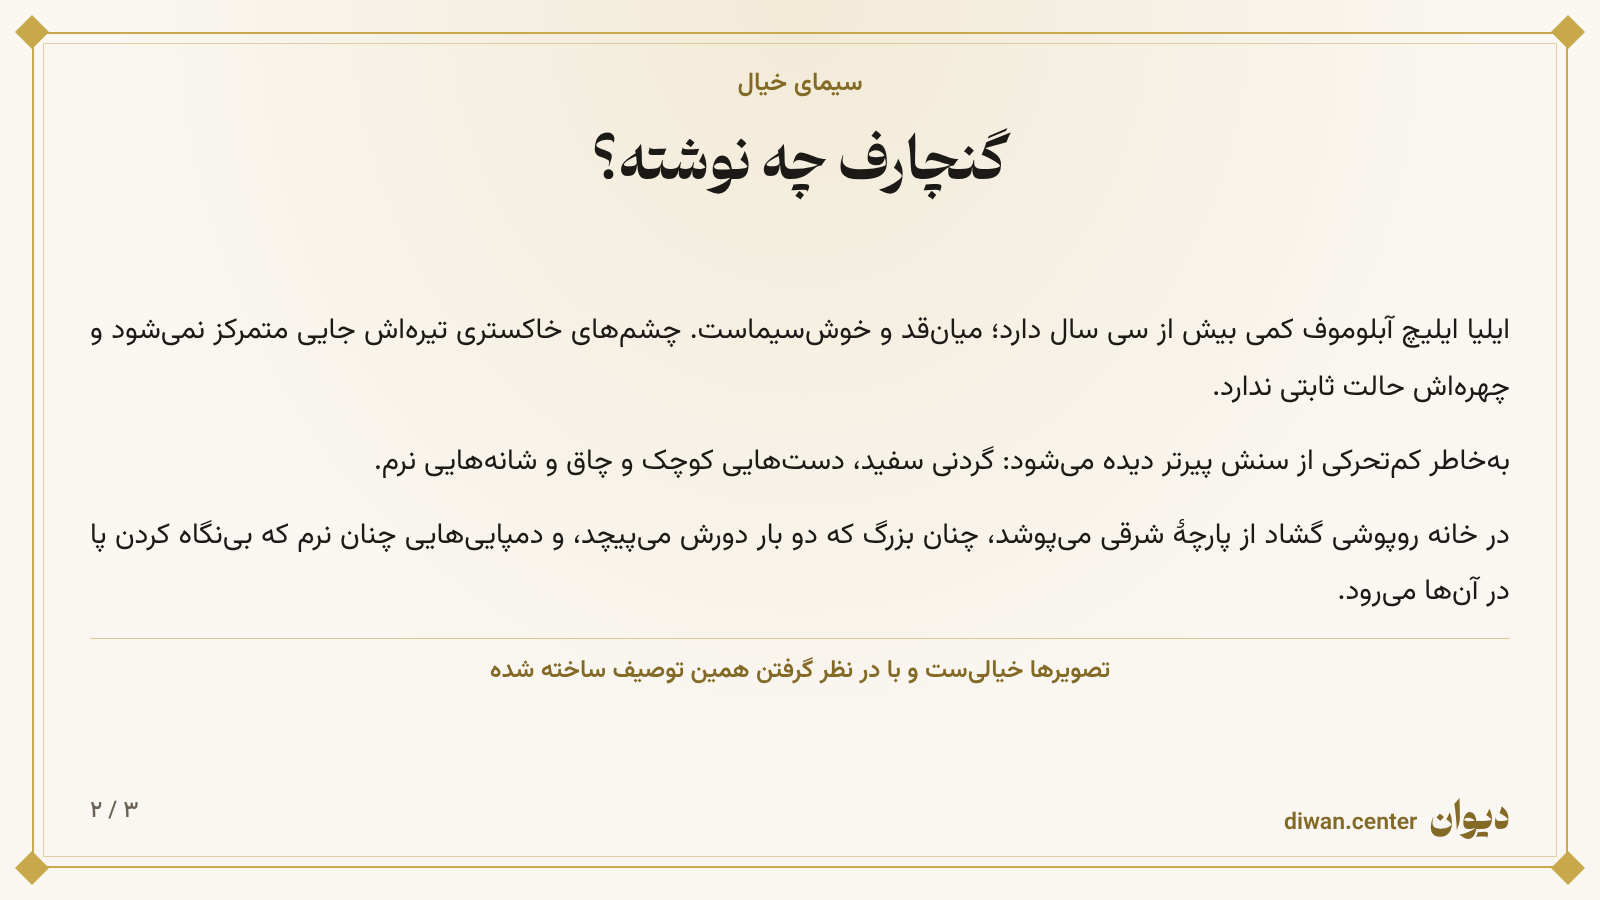
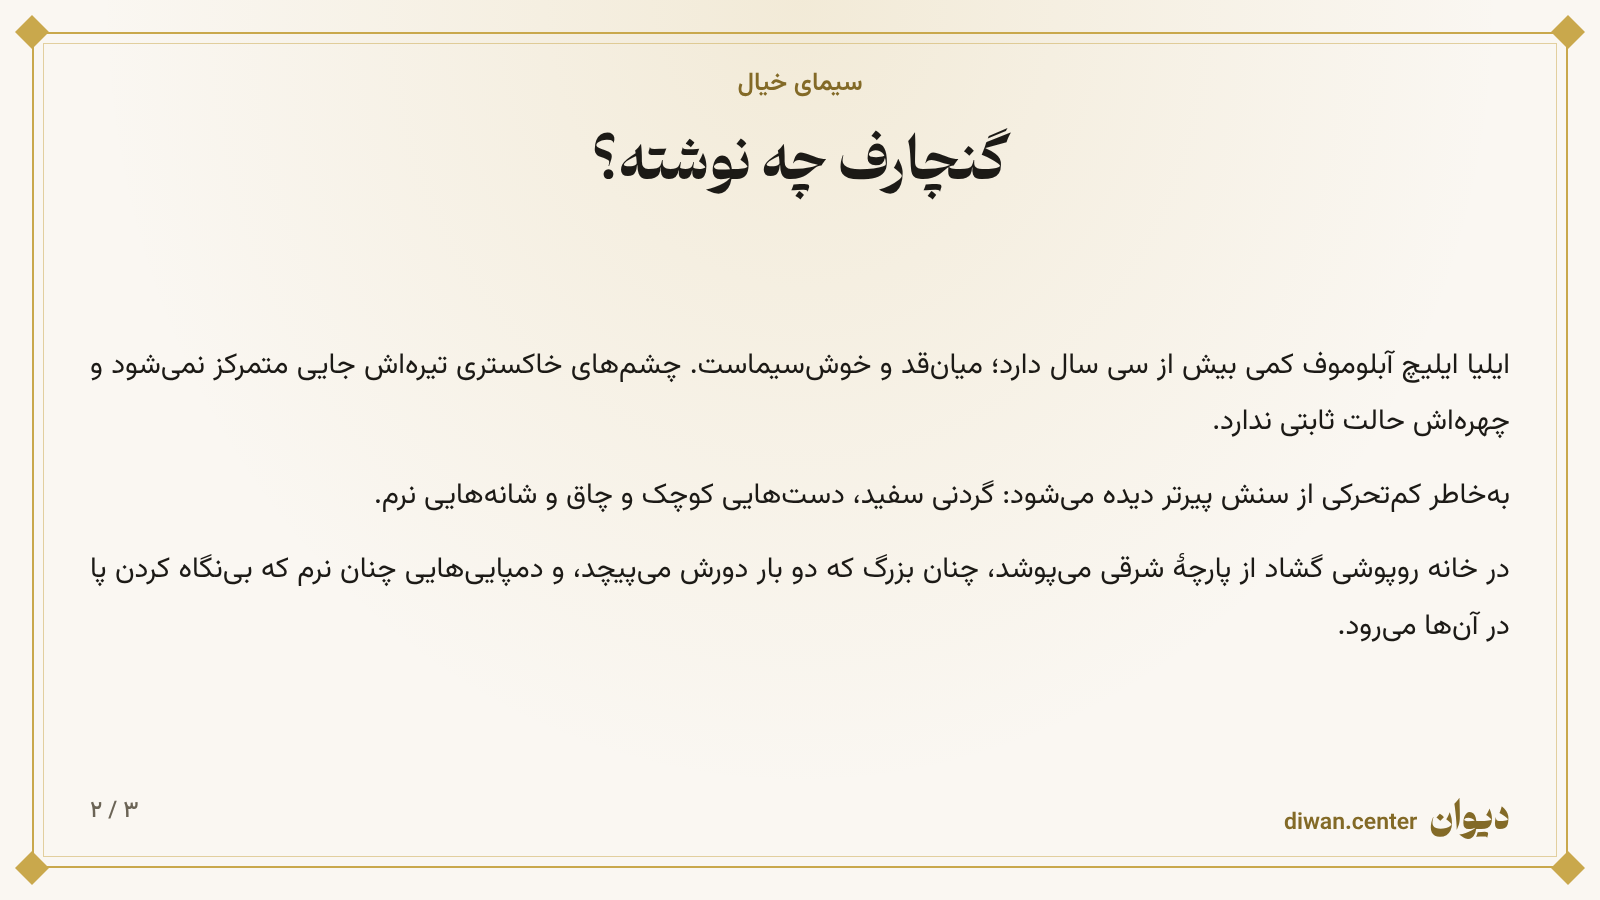
post22: drop note line from slide 2
Claude-Session: https://claude.ai/code/session_01KbXFhZ5gVHvAJQxmARukFF

Changed region(s): [[0.0625, 0.3422, 0.9375, 0.7156], [0.3125, 0.7156, 0.6875, 0.7778]]

diff --git a/tools/simay/out/_s2_ig.html b/tools/simay/out/_s2_ig.html
@@ -33,4 +33,4 @@ h2{font-family:Doran,Vazirmatn,sans-serif;font-weight:800;font-size:var(--ft);te
 .bn{font-size:calc(var(--fb)*.85);color:#836a27;font-weight:600;text-align:center;border-top:1px solid #d7c88f;padding-top:.5em;text-wrap:balance}
 .foot{display:flex;justify-content:space-between;color:#836a27;font-weight:600;font-size:var(--ff)}
 .foot b{font-family:Doran,Vazirmatn,sans-serif;font-size:calc(var(--ff)*1.45)}.foot .pg{color:#6b6456;font-weight:500}
-</style></head><body><div class="slide ig" style="--W:1080px;--H:1350px;--m:44px;--pad:96px 100px 80px;--ft:68px;--fb:38px;--ff:27px;--ct:90px;--cs:32px;--ck:30px"><div class="frame"></div><div class="dia a"></div><div class="dia b"></div><div class="dia c"></div><div class="dia d"></div><div class="tx"><div class="kicker">سیمای خیال</div><h2>گنچارف چه نوشته؟</h2><div class="bl" style="--fb:38px"><div class="bp">ایلیا ایلیچ آبلوموف کمی بیش از سی سال دارد؛ میانقد و خوشسیماست. چشمهای خاکستری تیرهاش جایی متمرکز نمیشود و چهرهاش حالت ثابتی ندارد.</div><div class="bp">بهخاطر کمتحرکی از سنش پیرتر دیده میشود: گردنی سفید، دستهایی کوچک و چاق و شانههایی نرم.</div><div class="bp">در خانه روپوشی گشاد از پارچهٔ شرقی میپوشد، چنان بزرگ که دو بار دورش میپیچد، و دمپاییهایی چنان نرم که بینگاه کردن پا در آنها میرود.</div><div class="bn">تصویرها خیالیست و با در نظر گرفتن همین توصیف ساخته شده</div></div><div class="foot"><span><b>دیوان</b> &nbsp;<span class="lt">diwan.center</span></span><span class="pg" dir="ltr">۲ / ۳</span></div></div></div></body></html>
+</style></head><body><div class="slide ig" style="--W:1080px;--H:1350px;--m:44px;--pad:96px 100px 80px;--ft:68px;--fb:38px;--ff:27px;--ct:90px;--cs:32px;--ck:30px"><div class="frame"></div><div class="dia a"></div><div class="dia b"></div><div class="dia c"></div><div class="dia d"></div><div class="tx"><div class="kicker">سیمای خیال</div><h2>گنچارف چه نوشته؟</h2><div class="bl" style="--fb:38px"><div class="bp">ایلیا ایلیچ آبلوموف کمی بیش از سی سال دارد؛ میانقد و خوشسیماست. چشمهای خاکستری تیرهاش جایی متمرکز نمیشود و چهرهاش حالت ثابتی ندارد.</div><div class="bp">بهخاطر کمتحرکی از سنش پیرتر دیده میشود: گردنی سفید، دستهایی کوچک و چاق و شانههایی نرم.</div><div class="bp">در خانه روپوشی گشاد از پارچهٔ شرقی میپوشد، چنان بزرگ که دو بار دورش میپیچد، و دمپاییهایی چنان نرم که بینگاه کردن پا در آنها میرود.</div></div><div class="foot"><span><b>دیوان</b> &nbsp;<span class="lt">diwan.center</span></span><span class="pg" dir="ltr">۲ / ۳</span></div></div></div></body></html>

diff --git a/tools/simay/out/_s2_tg.html b/tools/simay/out/_s2_tg.html
@@ -33,4 +33,4 @@ h2{font-family:Doran,Vazirmatn,sans-serif;font-weight:800;font-size:var(--ft);te
 .bn{font-size:calc(var(--fb)*.85);color:#836a27;font-weight:600;text-align:center;border-top:1px solid #d7c88f;padding-top:.5em;text-wrap:balance}
 .foot{display:flex;justify-content:space-between;color:#836a27;font-weight:600;font-size:var(--ff)}
 .foot b{font-family:Doran,Vazirmatn,sans-serif;font-size:calc(var(--ff)*1.45)}.foot .pg{color:#6b6456;font-weight:500}
-</style></head><body><div class="slide tg" style="--W:1280px;--H:720px;--m:28px;--pad:52px 70px 42px;--ft:44px;--fb:25px;--ff:20px;--ct:64px;--cs:26px;--ck:24px"><div class="frame"></div><div class="dia a"></div><div class="dia b"></div><div class="dia c"></div><div class="dia d"></div><div class="tx"><div class="kicker">سیمای خیال</div><h2>گنچارف چه نوشته؟</h2><div class="bl" style="--fb:23px"><div class="bp">ایلیا ایلیچ آبلوموف کمی بیش از سی سال دارد؛ میانقد و خوشسیماست. چشمهای خاکستری تیرهاش جایی متمرکز نمیشود و چهرهاش حالت ثابتی ندارد.</div><div class="bp">بهخاطر کمتحرکی از سنش پیرتر دیده میشود: گردنی سفید، دستهایی کوچک و چاق و شانههایی نرم.</div><div class="bp">در خانه روپوشی گشاد از پارچهٔ شرقی میپوشد، چنان بزرگ که دو بار دورش میپیچد، و دمپاییهایی چنان نرم که بینگاه کردن پا در آنها میرود.</div><div class="bn">تصویرها خیالیست و با در نظر گرفتن همین توصیف ساخته شده</div></div><div class="foot"><span><b>دیوان</b> &nbsp;<span class="lt">diwan.center</span></span><span class="pg" dir="ltr">۲ / ۳</span></div></div></div></body></html>
+</style></head><body><div class="slide tg" style="--W:1280px;--H:720px;--m:28px;--pad:52px 70px 42px;--ft:44px;--fb:25px;--ff:20px;--ct:64px;--cs:26px;--ck:24px"><div class="frame"></div><div class="dia a"></div><div class="dia b"></div><div class="dia c"></div><div class="dia d"></div><div class="tx"><div class="kicker">سیمای خیال</div><h2>گنچارف چه نوشته؟</h2><div class="bl" style="--fb:23px"><div class="bp">ایلیا ایلیچ آبلوموف کمی بیش از سی سال دارد؛ میانقد و خوشسیماست. چشمهای خاکستری تیرهاش جایی متمرکز نمیشود و چهرهاش حالت ثابتی ندارد.</div><div class="bp">بهخاطر کمتحرکی از سنش پیرتر دیده میشود: گردنی سفید، دستهایی کوچک و چاق و شانههایی نرم.</div><div class="bp">در خانه روپوشی گشاد از پارچهٔ شرقی میپوشد، چنان بزرگ که دو بار دورش میپیچد، و دمپاییهایی چنان نرم که بینگاه کردن پا در آنها میرود.</div></div><div class="foot"><span><b>دیوان</b> &nbsp;<span class="lt">diwan.center</span></span><span class="pg" dir="ltr">۲ / ۳</span></div></div></div></body></html>

diff --git a/tools/simay/out/_s2_x.html b/tools/simay/out/_s2_x.html
@@ -33,4 +33,4 @@ h2{font-family:Doran,Vazirmatn,sans-serif;font-weight:800;font-size:var(--ft);te
 .bn{font-size:calc(var(--fb)*.85);color:#836a27;font-weight:600;text-align:center;border-top:1px solid #d7c88f;padding-top:.5em;text-wrap:balance}
 .foot{display:flex;justify-content:space-between;color:#836a27;font-weight:600;font-size:var(--ff)}
 .foot b{font-family:Doran,Vazirmatn,sans-serif;font-size:calc(var(--ff)*1.45)}.foot .pg{color:#6b6456;font-weight:500}
-</style></head><body><div class="slide x" style="--W:1600px;--H:900px;--m:32px;--pad:64px 90px 52px;--ft:54px;--fb:31px;--ff:23px;--ct:80px;--cs:31px;--ck:28px"><div class="frame"></div><div class="dia a"></div><div class="dia b"></div><div class="dia c"></div><div class="dia d"></div><div class="tx"><div class="kicker">سیمای خیال</div><h2>گنچارف چه نوشته؟</h2><div class="bl" style="--fb:29px"><div class="bp">ایلیا ایلیچ آبلوموف کمی بیش از سی سال دارد؛ میانقد و خوشسیماست. چشمهای خاکستری تیرهاش جایی متمرکز نمیشود و چهرهاش حالت ثابتی ندارد.</div><div class="bp">بهخاطر کمتحرکی از سنش پیرتر دیده میشود: گردنی سفید، دستهایی کوچک و چاق و شانههایی نرم.</div><div class="bp">در خانه روپوشی گشاد از پارچهٔ شرقی میپوشد، چنان بزرگ که دو بار دورش میپیچد، و دمپاییهایی چنان نرم که بینگاه کردن پا در آنها میرود.</div><div class="bn">تصویرها خیالیست و با در نظر گرفتن همین توصیف ساخته شده</div></div><div class="foot"><span><b>دیوان</b> &nbsp;<span class="lt">diwan.center</span></span><span class="pg" dir="ltr">۲ / ۳</span></div></div></div></body></html>
+</style></head><body><div class="slide x" style="--W:1600px;--H:900px;--m:32px;--pad:64px 90px 52px;--ft:54px;--fb:31px;--ff:23px;--ct:80px;--cs:31px;--ck:28px"><div class="frame"></div><div class="dia a"></div><div class="dia b"></div><div class="dia c"></div><div class="dia d"></div><div class="tx"><div class="kicker">سیمای خیال</div><h2>گنچارف چه نوشته؟</h2><div class="bl" style="--fb:29px"><div class="bp">ایلیا ایلیچ آبلوموف کمی بیش از سی سال دارد؛ میانقد و خوشسیماست. چشمهای خاکستری تیرهاش جایی متمرکز نمیشود و چهرهاش حالت ثابتی ندارد.</div><div class="bp">بهخاطر کمتحرکی از سنش پیرتر دیده میشود: گردنی سفید، دستهایی کوچک و چاق و شانههایی نرم.</div><div class="bp">در خانه روپوشی گشاد از پارچهٔ شرقی میپوشد، چنان بزرگ که دو بار دورش میپیچد، و دمپاییهایی چنان نرم که بینگاه کردن پا در آنها میرود.</div></div><div class="foot"><span><b>دیوان</b> &nbsp;<span class="lt">diwan.center</span></span><span class="pg" dir="ltr">۲ / ۳</span></div></div></div></body></html>

diff --git a/tools/simay/build.py b/tools/simay/build.py
@@ -11,7 +11,7 @@ S=[
   'ایلیا ایلیچ آبلوموف کمی بیش از سی سال دارد؛ میانقد و خوشسیماست. چشمهای خاکستری تیرهاش جایی متمرکز نمیشود و چهرهاش حالت ثابتی ندارد.',
   'بهخاطر کمتحرکی از سنش پیرتر دیده میشود: گردنی سفید، دستهایی کوچک و چاق و شانههایی نرم.',
   'در خانه روپوشی گشاد از پارچهٔ شرقی میپوشد، چنان بزرگ که دو بار دورش میپیچد، و دمپاییهایی چنان نرم که بینگاه کردن پا در آنها میرود.',
- ],note='تصویرها خیالیست و با در نظر گرفتن همین توصیف ساخته شده'),
+ ]),
  dict(k='img',art='assets/oblomov_out.png',title='و بیرون از خانه؟',sub='در رمان، عشق است که او را از خانه بیرون میکشد'),
 ]
 N=len(S)
@@ -69,7 +69,7 @@ def html(i,s,p):
         frame='<div class="frame"></div><div class="dia a"></div><div class="dia b"></div><div class="dia c"></div><div class="dia d"></div>'
         fb=int({'ig':38,'tg':23,'x':29}[p])
         paras=''.join(f'<div class="bp">{t}</div>' for t in s['paras'])
-        body=f'{frame}<div class="tx"><div class="kicker">{KICK}</div><h2>{s["title"]}</h2><div class="bl" style="--fb:{fb}px">{paras}<div class="bn">{s["note"]}</div></div><div class="foot"><span><b>دیوان</b> &nbsp;<span class="lt">diwan.center</span></span><span class="pg" dir="ltr">{fa(i)} / {fa(N)}</span></div></div>'
+        body=f'{frame}<div class="tx"><div class="kicker">{KICK}</div><h2>{s["title"]}</h2><div class="bl" style="--fb:{fb}px">{paras}</div><div class="foot"><span><b>دیوان</b> &nbsp;<span class="lt">diwan.center</span></span><span class="pg" dir="ltr">{fa(i)} / {fa(N)}</span></div></div>'
         cls='slide '+p
     return f'<!doctype html><html lang="fa" dir="rtl"><head><meta charset="utf-8"><style>{CSS}</style></head><body><div class="{cls}" style="{VARS[p]}">{body}</div></body></html>'
 if __name__=='__main__':
